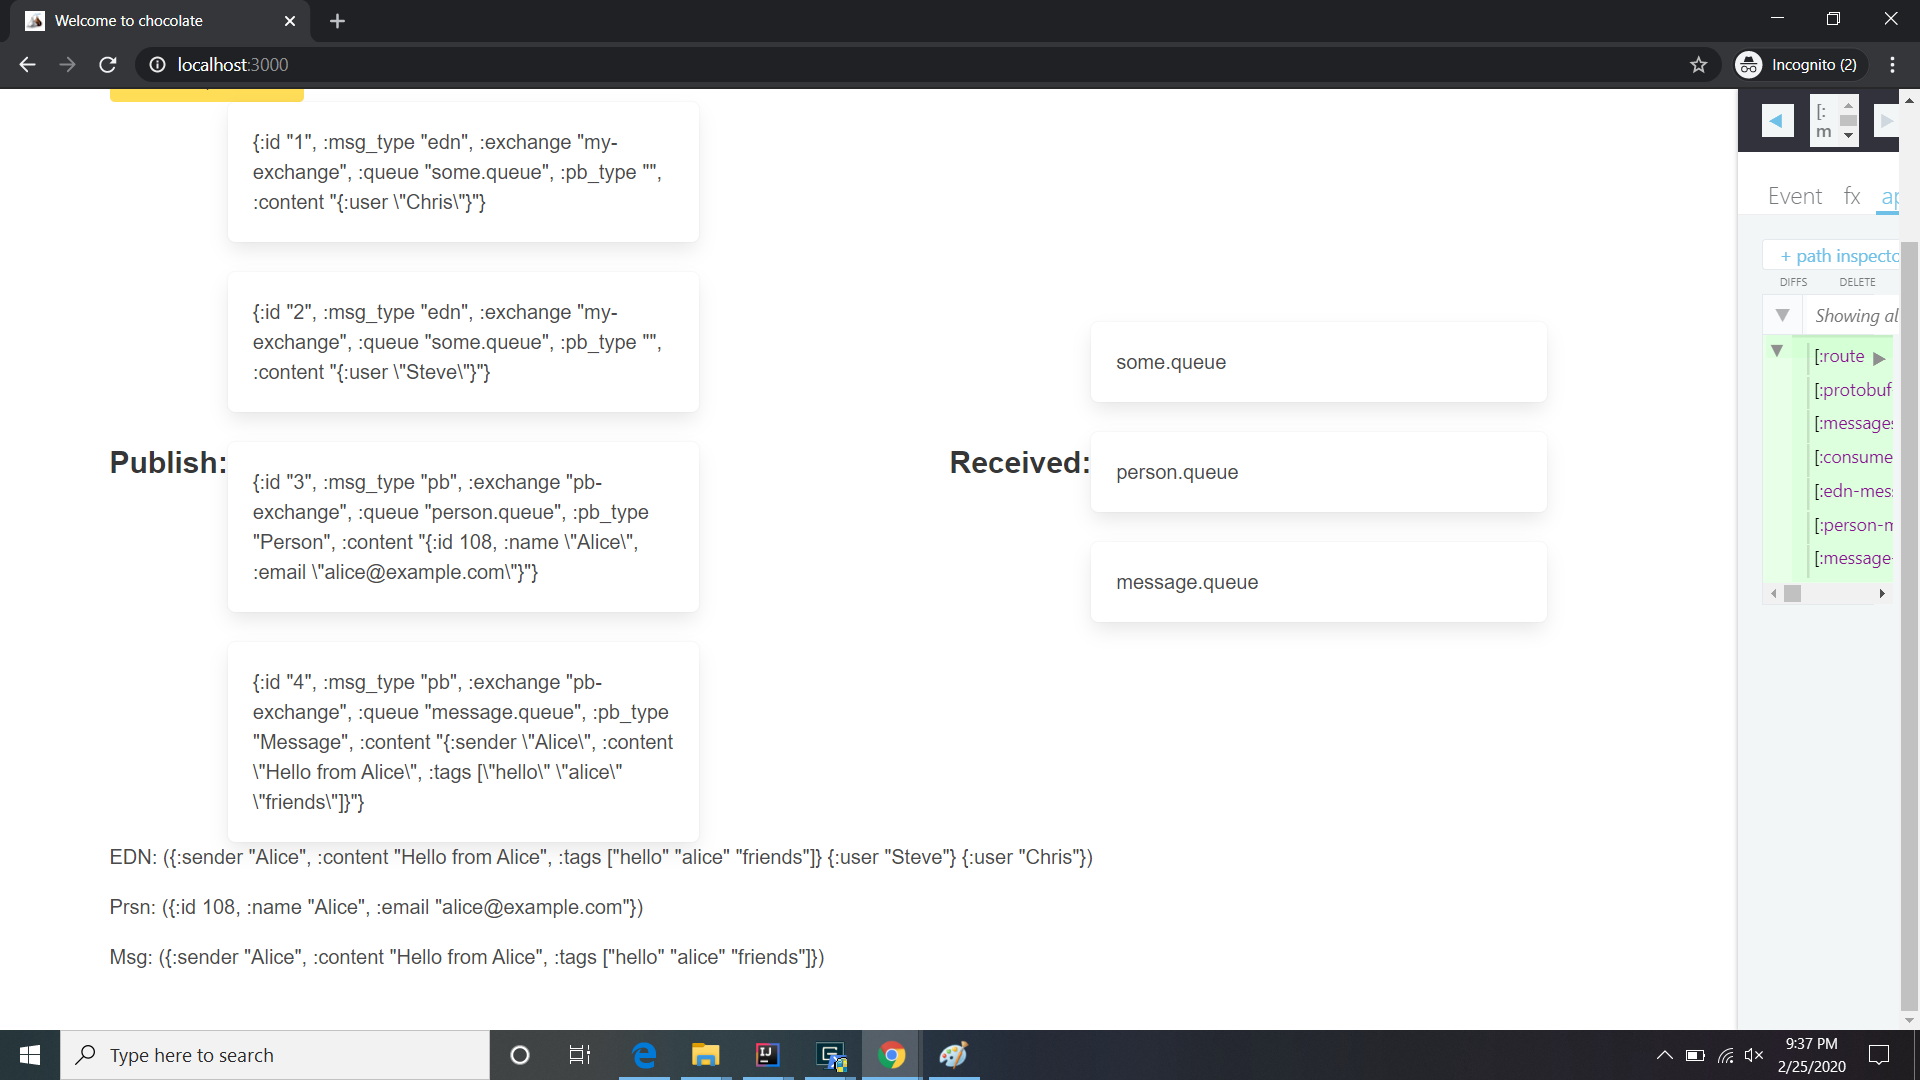
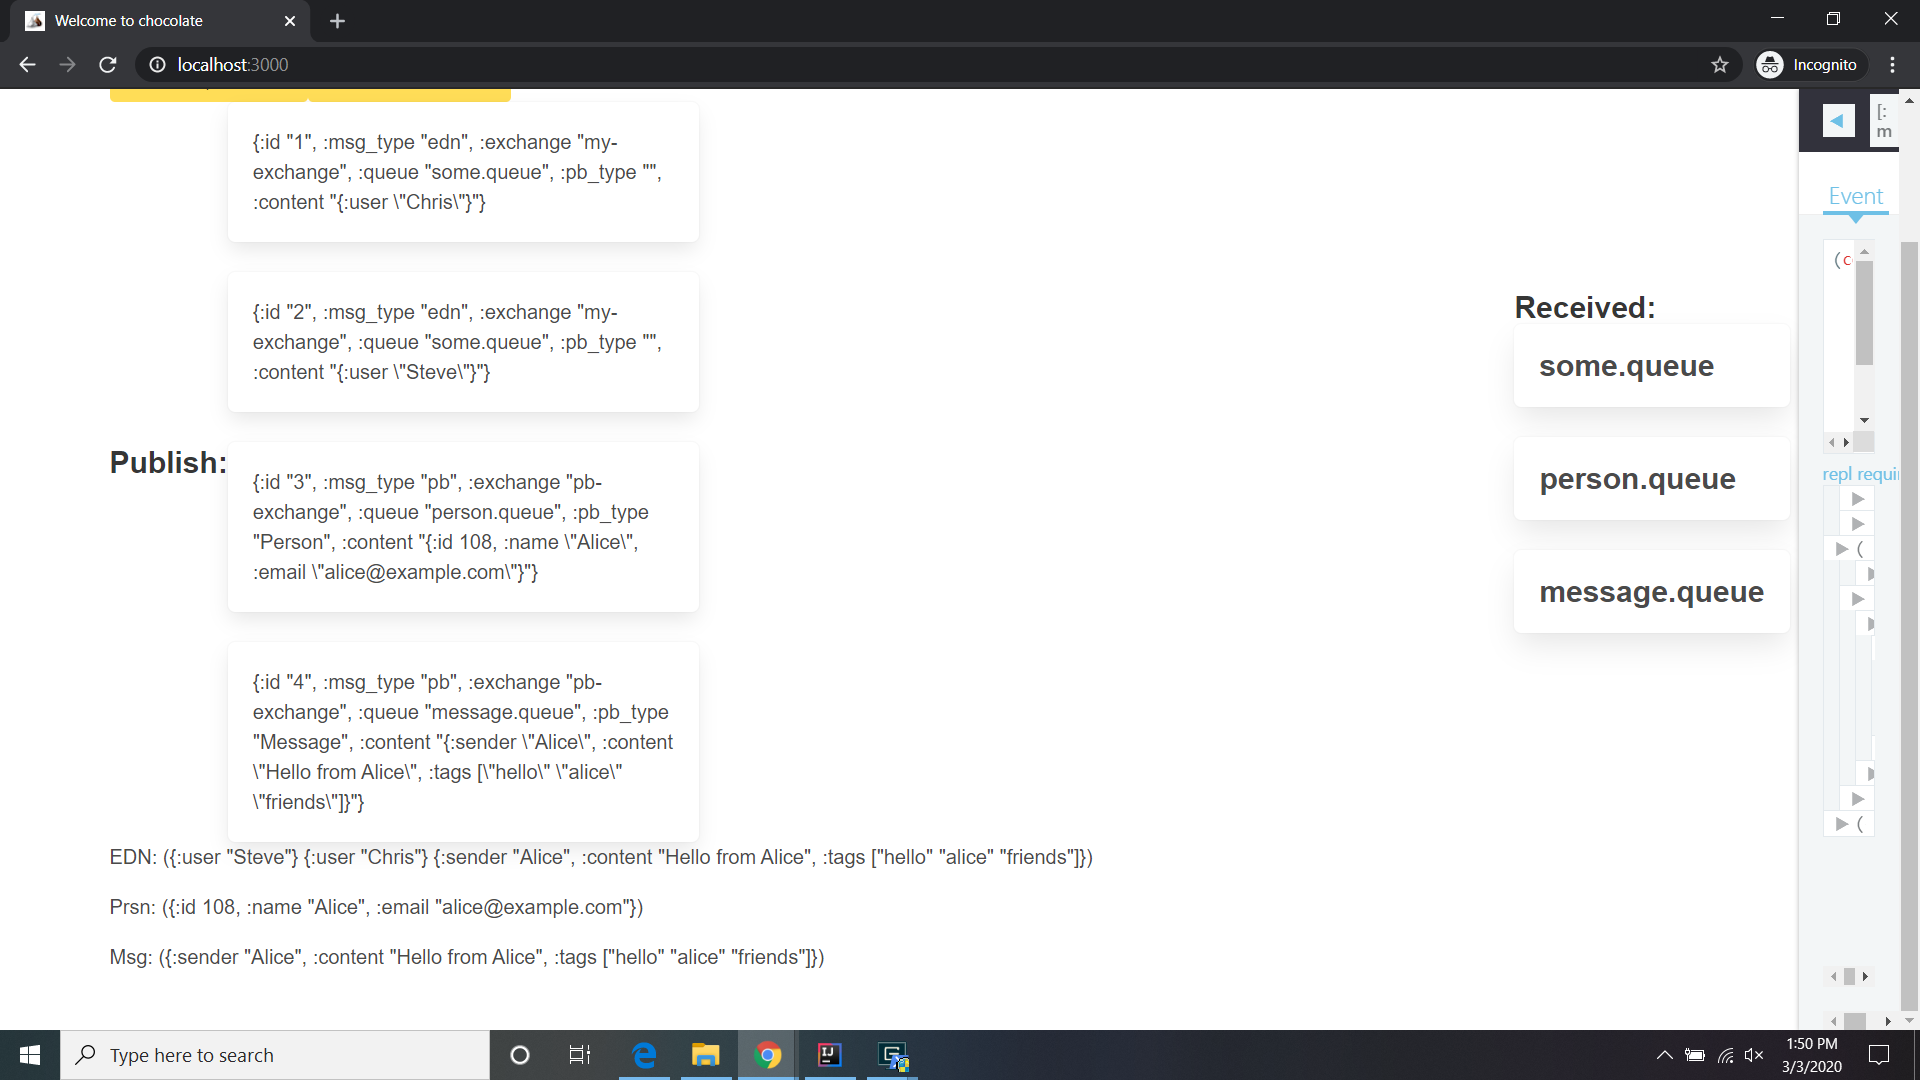
updates docs to discuss Flexible-consumer

diff --git a/docs/client.md b/docs/client.md
@@ -9,10 +9,12 @@ _fig. 1_
 
 Key parts of this interface are:
 
-- Yellow button labeled "Flexible protobuf" which wil be discussed later.
+- A yellow button labeled "Flexible-publisher" which wil be discussed later.
+
+- - Another yellow button labeled "FLexible-consumer" which will also be discussed later.
 
 - 2 columns of *large* buttons. The buttons on the left are for publishing statically defined message. The buttons
-on the right start consumers ("listeners" or "subscribers") to specifc queues.
+on the right start consumers ("listeners" or "subscribers") to specific queues.
 
 ![screenshot 2](../screenshots/ui-flexible-protobuf-messages.png)
 _fig. 2_
@@ -28,20 +30,30 @@ a queue, the contents will be appended to the contents of the corresponding text
 
 
 
-### The "Flexible protobuf" Button
+### The "Flexible-publisher" Button
 
 Clicking on the yellow button opens a modal:
 
-![screenshot 3](../screenshots/ui-flexible-protobuf-modal.png)
-_fig. 3_
-
 Filling out the various field let you create a custom message to be published to any exchange/queue combination you like.
 
-![screenshot 4](../screenshots/ui-flexible-protobuf-modal-filled.png)
-_fig. 4_
+![screenshot 3](../screenshots/ui-flexible-protobuf-modal-filled.png)
+_fig. 3_
 
 
 > Note: There is absolutely NO error checking on this modal, so if you make any mistakes (typos, incorrect or missing parameters,
+> etc.) the modal will NOT help you out. User Be Careful!
+
+
+### The "Flexible-consumer" Button
+
+Clicking on the other yellow button opens a modal to configure a protocol buffer-specific consumer. Filling out  
+the various field let you define the configuration for a consumer to any exchange/queue/protobuf-type you want.
+
+![screenshot 4](../screenshots/ui-flexible-protobuf-consumer-filled.png)
+_fig. 4_
+
+
+> Note: Again, there is absolutely NO error checking on this modal, so if you make any mistakes (typos, incorrect or missing parameters,
 > etc.) the modal will NOT help you out. User Be Careful!
 
 
@@ -52,6 +64,6 @@ If you prefer, you can also look at the RabbitMQ console to see the message traf
 
 > Note: if you have any consumers running they will likely grab messages published to their queues so quickly that
 > the console, which only updates every few seconds, can't keep up. It's best to use the console when you DON'T start any
-> consumers.
+> consumers, so the messages just sit around while you look them over.
 
 
